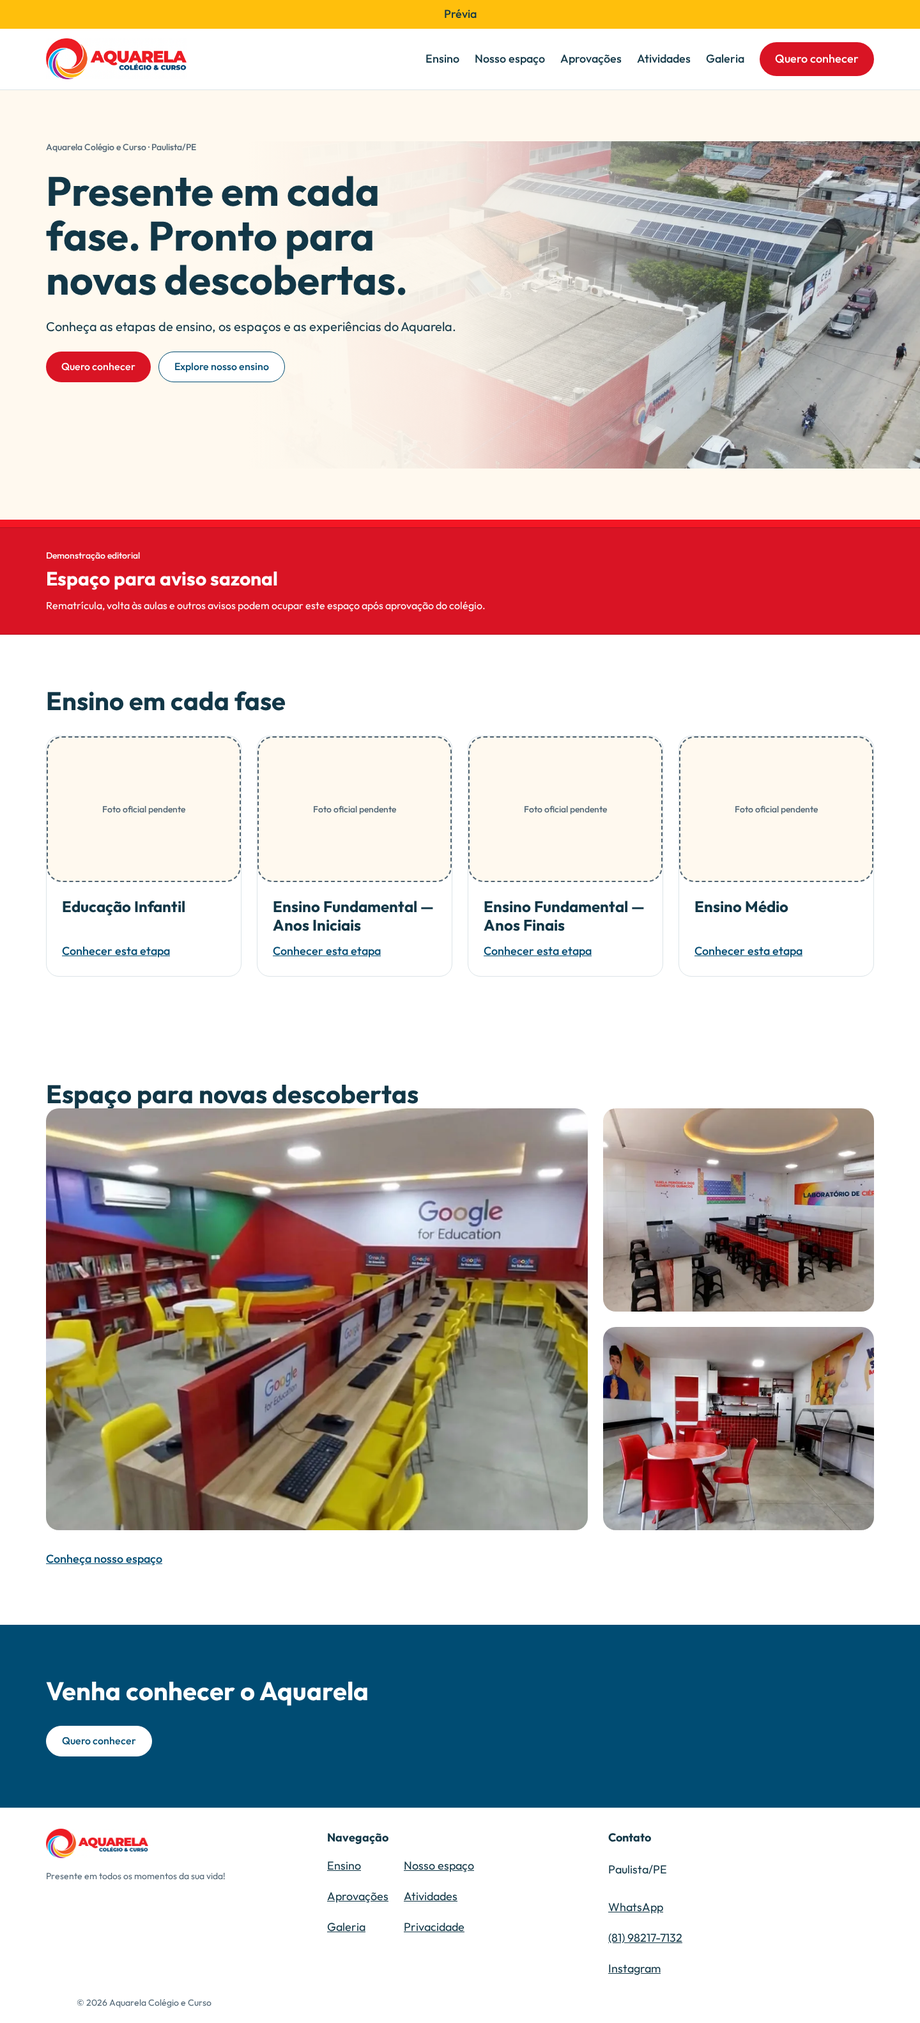
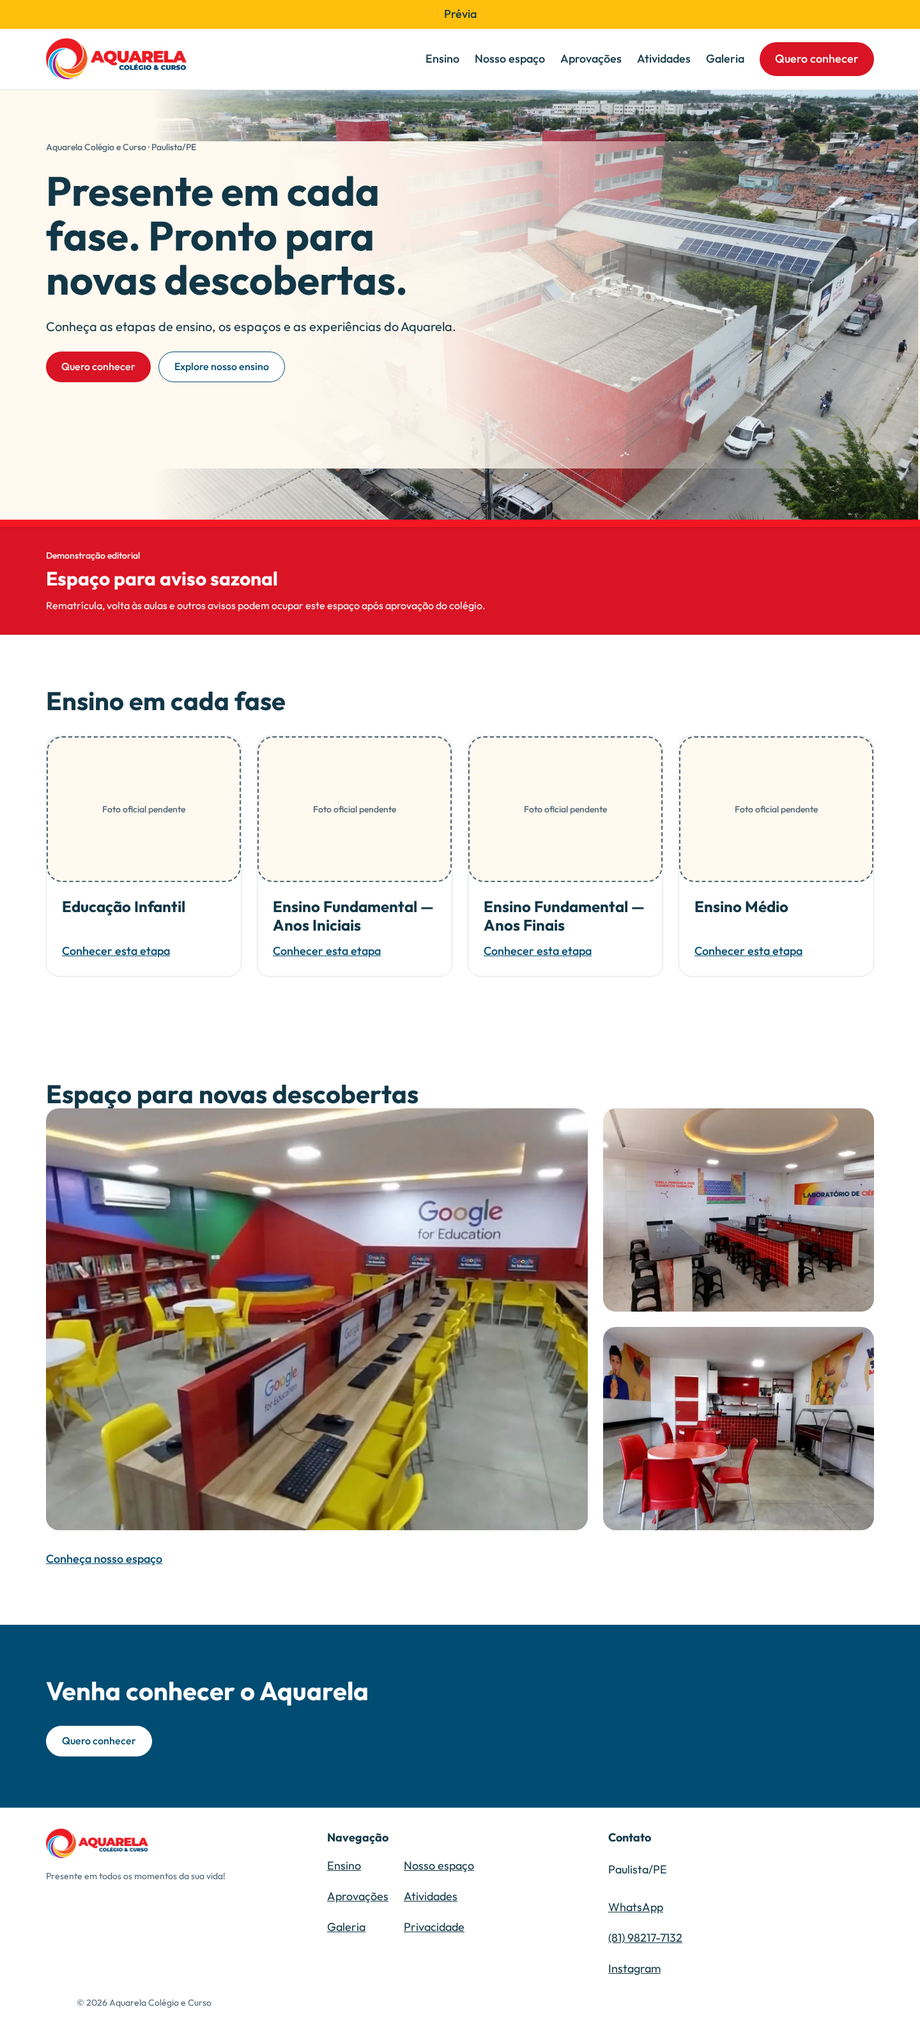
fix(home): refine hero framing and scroll feel

Changed region(s): [[0.1875, 0.031, 1.0, 0.2787]]

diff --git a/tests/e2e/smooth-scroll.spec.ts b/tests/e2e/smooth-scroll.spec.ts
@@ -40,6 +40,30 @@ test('smooth scroll para overlay e retoma ao fechar', async ({ page }) => {
   await expect(page.locator('#main-content')).toBeInViewport();
 });
 
+test('wheel interpola o deslocamento em vez de saltar ao destino', async ({
+  page,
+}) => {
+  test.skip(
+    process.env.ENABLE_SMOOTH_SCROLL === 'false',
+    'ilha desligada pelo kill switch de build',
+  );
+  await page.goto('/');
+  await expect(page.locator('html')).toHaveAttribute(
+    'data-smooth-scroll',
+    'active',
+  );
+
+  await page.mouse.wheel(0, 600);
+  await page.waitForTimeout(80);
+  const intermediatePosition = await page.evaluate(() => window.scrollY);
+  expect(intermediatePosition).toBeGreaterThan(0);
+  expect(intermediatePosition).toBeLessThan(540);
+
+  await expect
+    .poll(() => page.evaluate(() => window.scrollY))
+    .toBeGreaterThan(intermediatePosition + 100);
+});
+
 test('flag de build desativada não monta a ilha', async ({ page }) => {
   test.skip(
     process.env.ENABLE_SMOOTH_SCROLL !== 'false' ||

diff --git a/playwright.config.ts b/playwright.config.ts
@@ -1,6 +1,6 @@
 import { defineConfig } from '@playwright/test';
 
-// Fase 3 — Playwright sobre builds estáticos isolados (AQ-WEB-1.1.5).
+// Fase 3 — Playwright sobre builds estáticos isolados (AQ-WEB-1.1.6).
 // Nunca usa os HTMLs do `dist/` principal: os builds e2e vão para
 // subdiretórios isolados `dist/e2e-public` e `dist/e2e-preview`
 // (cobertos pelo ignore de `dist/` no tsconfig/eslint/gitignore).

diff --git a/src/islands/SmoothScroll.svelte b/src/islands/SmoothScroll.svelte
@@ -11,9 +11,12 @@
     const lenis = new Lenis({
       anchors: true,
       autoRaf: true,
+      duration: 1.1,
+      easing: (time) => Math.min(1, 1.001 - Math.pow(2, -10 * time)),
       respectReducedMotion: true,
       smoothWheel: true,
       syncTouch: false,
+      wheelMultiplier: 0.9,
     });
     const overlays: string[] = [];
     document.documentElement.dataset.smoothScroll = 'active';

diff --git a/design/design-spec.md b/design/design-spec.md
@@ -1,6 +1,6 @@
 # Contrato de implementação — Aquarela
 
-**Contrato AQ-WEB-1.1.5 · revisado em 27/09/2026.**
+**Contrato AQ-WEB-1.1.6 · revisado em 27/09/2026.**
 
 “Congelado” significa baseline normativa para implementar, não aprovação dos dados escolares nem validação de um site pronto. Alterações de escopo ou aparência exigem revisão explícita deste contrato; conteúdo factual pode ser completado conforme o modelo de publicação, sem redesenhar a interface.
 
@@ -64,11 +64,11 @@ Escala de espaços, em px: `--space-1:4`, `--space-2:8`, `--space-3:12`, `--spac
 
 Raios: `--radius-control:12px`, `--radius-card:20px`, `--radius-media:24px`, `--radius-pill:999px`. Seções abertas não têm raio nem sombra. Card tem borda de 1 px e nenhuma sombra padrão. Header após scroll e card de navegação no hover podem usar `0 4px 16px rgb(18 55 71 / 0.10)`. Menu/lightbox são camadas sobrepostas, não cards decorativos.
 
-Movimento: cores/sombra em 160 ms, abertura de overlay em 200 ms, easing `ease-out`. Não animar a altura de conteúdo textual. O POC aprovado usa Lenis em desktop com ponteiro não-coarse, habilitado por padrão e desligável no build com `ENABLE_SMOOTH_SCROLL=false`; usa `respectReducedMotion:true`, `syncTouch:false`, `anchors:true` e RAF automático. Em `prefers-reduced-motion: reduce` ou ponteiro coarse, preserva o scroll nativo. Menu e lightbox chamam `stop()` enquanto qualquer overlay estiver aberto e `start()` quando todos fecharem; listeners e instância são destruídos no cleanup. Âncoras, skip link, histórico, foco e body locking permanecem nativos/inalterados. Nada de autoplay, parallax, scroll-jacking, counters, skeleton permanente, reveal ou entrada que esconda conteúdo até JavaScript executar.
+Movimento: cores/sombra em 160 ms, abertura de overlay em 200 ms, easing `ease-out`. Não animar a altura de conteúdo textual. O POC aprovado usa Lenis em desktop com ponteiro não-coarse, habilitado por padrão e desligável no build com `ENABLE_SMOOTH_SCROLL=false`; usa duração de 1,1 s com easing exponencial, `wheelMultiplier:0.9`, `respectReducedMotion:true`, `syncTouch:false`, `anchors:true` e RAF automático. Em `prefers-reduced-motion: reduce` ou ponteiro coarse, preserva o scroll nativo. Menu e lightbox chamam `stop()` enquanto qualquer overlay estiver aberto e `start()` quando todos fecharem; listeners e instância são destruídos no cleanup. Âncoras, skip link, histórico, foco e body locking permanecem nativos/inalterados. Nada de autoplay, parallax, scroll-jacking, counters, skeleton permanente, reveal ou entrada que esconda conteúdo até JavaScript executar.
 
 ## 5. Mídia e composição
 
-Hero da home: fotografia real em camada de fundo full-bleed, com assunto visual preservado à direita; fade opaco de `--surface-paper` abrindo para a fotografia à esquerda protege toda a copy. Faixa contínua inferior usa `--brand-red`. Não usar filtro destrutivo nem arco decorativo. O enquadramento é responsivo, sem `100vh`; no mobile/tablet o overlay é mais forte. A imagem permanece semântica como `<img>`/`<picture>` responsivo, com alt, prioridade e dimensões.
+Hero da home: fotografia real em camada de fundo, com assunto visual preservado à direita; fade opaco de `--surface-paper` abrindo para a fotografia à esquerda protege toda a copy. No desktop, a mídia mantém a proporção 16:9 com `contain`, alinhada à direita, sem cortar a escola para preencher telas ultralargas. Faixa contínua inferior usa `--brand-red`. Não usar filtro destrutivo nem arco decorativo. O enquadramento é responsivo, sem `100vh`; no mobile/tablet o overlay é mais forte. A imagem permanece semântica como `<img>`/`<picture>` responsivo, com alt, prioridade e dimensões.
 
 Foto real do colégio com origem e uso aprovados. Não gerar alunos, ambientes ou depoimentos. Não recolorir/reconstruir a [logo original](../assets/logo-aquarela.PNG). Criar derivado com margens externas ajustadas, preservando proporção e pixels da marca; guardar o original. Logo sem SVG oficial deve permanecer raster de qualidade, não vetorização inventada.
 
@@ -169,3 +169,9 @@ protegendo a copy à esquerda e faixa vermelha inferior. O POC Lenis foi
 aprovado com kill switch de build, fallback nativo para movimento reduzido e
 ponteiro coarse, pausa durante menu/lightbox e preservação de âncoras, foco e
 histórico.
+
+### Revisão AQ-WEB-1.1.6 — 27/09/2026
+
+O HeroHome desktop preserva a proporção 16:9 e o enquadramento completo da
+escola à direita. O Lenis recebe duração e easing explícitos para tornar a
+interpolação perceptível sem alterar os fallbacks de acessibilidade.

diff --git a/qa/phase-4/README.md b/qa/phase-4/README.md
@@ -7,14 +7,14 @@ Lote de integração do POC Lenis e da composição revisada do HeroHome.
 - Objetivo: consolidar o relatório da Fase 4 (integração, ciclo completo e revisão final) a partir das evidências confirmadas pelo lead.
 - Branch: `phase/4-finalizacao-site`.
 - Baseline anterior: `1cf8b2d docs(qa): record phase four integration`.
-- Contrato: AQ-WEB-1.1.5, revisado em 27/09/2026.
+- Contrato: AQ-WEB-1.1.6, revisado em 27/09/2026.
 - Integridade da baseline validada neste worktree: `sha256sum -c design-contract.sha256` com 5/5 hashes OK (`design-spec.md`, `routes.md`, `components.md`, `responsive.md`, `content-model.md`).
-- Escopo deste lote: smooth scroll feature-flagado, HeroHome full-bleed, variante hero de 2400 px, contrato AQ-WEB-1.1.5 e testes relacionados; sem push, PR ou reescrita de histórico.
+- Escopo deste lote: smooth scroll feature-flagado, HeroHome com mídia 16:9 à direita, variante hero de 2400 px, contrato AQ-WEB-1.1.6 e testes relacionados; sem push, PR ou reescrita de histórico.
 
 ## 2. Implementação verificada
 
 - Lenis `1.3.26` habilitado por padrão, desligável no build com `ENABLE_SMOOTH_SCROLL=false`; reduced motion e ponteiro coarse preservam scroll nativo; overlays param/retomam a instância.
-- HeroHome usa imagem semântica full-bleed, fade paper para a esquerda, assunto preservado à direita e faixa contínua `--brand-red`; o arco anterior foi removido.
+- HeroHome usa imagem semântica 16:9 contida à direita no desktop, fade paper para a esquerda, enquadramento completo da escola e faixa contínua `--brand-red`; o arco anterior foi removido.
 - Hero possui variante WebP 2400×1350 no srcset; o guard público remove mídia observed, inclusive a nova largura.
 
 Evidência anterior preservada até o HEAD `1cf8b2d`:
@@ -26,7 +26,7 @@ Evidência anterior preservada até o HEAD `1cf8b2d`:
 
 ## 3. Impacto visual
 
-- A fotografia agora ocupa o fundo integral do Hero. O degradê paper mantém o H1, apoio e CTAs legíveis à esquerda e revela progressivamente o prédio à direita.
+- A fotografia ocupa o fundo do Hero sem o recorte vertical agressivo: no desktop, o quadro 16:9 mostra a escola inteira à direita e uma máscara dissolve sua borda esquerda no paper. O degradê mantém o H1, apoio e CTAs legíveis.
 - A faixa vermelha contínua encerra o Hero e cria uma separação mais forte para a seção seguinte.
 - O asset de 2400×1350 evita ampliação do WebP de 1600 px em telas largas; não houve reconstrução ou geração artificial da fotografia.
 
@@ -54,8 +54,8 @@ Confirmadas neste lote pelo lead:
 - 72 unit tests.
 - Build `public`.
 - Build `preview` (`editorial-preview`).
-- Playwright — 146 passed / 38 skipped, incluindo Lenis, fallback de movimento reduzido/coarse pointer, overlays, âncora e nova mídia do Hero.
-- Kill switch `ENABLE_SMOOTH_SCROLL=false` — projeto público com 58 passed / 34 skipped; a ilha não é montada.
+- Playwright — 148 passed / 38 skipped, incluindo interpolação temporal do Lenis, fallback de movimento reduzido/coarse pointer, overlays, âncora e nova mídia do Hero.
+- Kill switch `ENABLE_SMOOTH_SCROLL=false` — projeto público com 58 passed / 35 skipped; a ilha não é montada.
 - `check-release` — falha somente pelos seis bloqueios D06 listados acima.
 - `sha256sum -c design-contract.sha256` — 5/5 OK (revalidado neste lote antes da escrita).
 - `prettier --check qa/phase-4/README.md` e `git diff --check` deste lote.

diff --git a/design/responsive.md b/design/responsive.md
@@ -1,6 +1,6 @@
 # Contrato responsivo e validação visual
 
-**AQ-WEB-1.1.5** · Autoridade para medidas. Layout fluido entre os intervalos abaixo; não escalar uma captura Figma como imagem.
+**AQ-WEB-1.1.6** · Autoridade para medidas. Layout fluido entre os intervalos abaixo; não escalar uma captura Figma como imagem.
 
 ## B01 — Breakpoints
 
@@ -21,7 +21,7 @@ Em 320–359 px, manter gutter 20, fazer wrap de rótulos e botões e permitir a
 | Header | 80 px | 80 px | 96 px |
 | Logo visível | largura 180 px, altura auto | 200 px, auto | 220 px, auto |
 | Padding vertical HeroHome | 48 px | 64 px | 80 px |
-| HeroHome | full-bleed, altura natural, overlay paper forte | full-bleed, altura natural, overlay paper forte | full-bleed, mínimo natural de referência 512 px, fade paper abrindo à direita |
+| HeroHome | full-bleed, altura natural, overlay paper forte | full-bleed, altura natural, overlay paper forte | mídia 16:9 contida à direita, mínimo natural de referência 512 px, fade paper abrindo à direita |
 | Padding PageIntro vertical | 40 px | 48 px | 48 px |
 | Padding de seção vertical | 48 px | 64 px | 80 px |
 | Gap SectionHeading/grade | 24 px | 32 px | 32 px |
@@ -34,7 +34,7 @@ Em 320–359 px, manter gutter 20, fazer wrap de rótulos e botões e permitir a
 
 Os valores do estudo que eram intervalos (ex.: 80–96 px de seção) são resolvidos pela tabela. Não adicionar seções vazias para criar ritmo. Com 1–2 cards numa grade de 3, manter largura de coluna e alinhamento à esquerda; não ampliar o card para largura de hero. A grade de quatro segmentos permanece na ordem editorial.
 
-Hero: fotografia full-bleed com enquadramento responsivo e assunto à direita; fade paper protege a copy e fica mais forte em mobile/tablet. A faixa red é o limite inferior contínuo. Não usar `min-height:100vh`, travar H1 ou provocar overflow. CTA group: mobile em coluna com largura 100%; tablet/desktop em linha com wrap e largura pelo conteúdo.
+Hero: fotografia com enquadramento responsivo e assunto à direita; no desktop, usar `contain` dentro de uma caixa 16:9 alinhada à direita para preservar a escola completa, inclusive em telas ultralargas. O fade paper protege a copy e fica mais forte em mobile/tablet. A faixa red é o limite inferior contínuo. Não usar `min-height:100vh`, travar H1 ou provocar overflow. CTA group: mobile em coluna com largura 100%; tablet/desktop em linha com wrap e largura pelo conteúdo.
 
 PageIntro interno tem altura natural, não altura mínima de banner. Introdução até 65ch. Em 390×844, sua altura não deve empurrar todo o primeiro bloco de conteúdo para além da dobra por espaçamento artificial. É meta de composição, não autorização para cortar texto aprovado.
 

diff --git a/design/components.md b/design/components.md
@@ -1,6 +1,6 @@
 # Contrato de componentes
 
-**AQ-WEB-1.1.5** · Normativo. Tokens em [design-spec.md](./design-spec.md), geometria em [responsive.md](./responsive.md), dados em [content-model.md](./content-model.md).
+**AQ-WEB-1.1.6** · Normativo. Tokens em [design-spec.md](./design-spec.md), geometria em [responsive.md](./responsive.md), dados em [content-model.md](./content-model.md).
 
 Os nomes abaixo identificam responsabilidades; podem ser adaptados ao padrão de nomes da stack, mantendo uma correspondência no relatório de entrega. Reusar componentes entre rotas. Não criar variantes por página quando a diferença for apenas conteúdo.
 
@@ -37,7 +37,7 @@ Para evitar decisões implícitas caso haja revisão futura, padrão reservado: 
 
 ## C04 — HeroHome / PageIntro / Breadcrumb
 
-HeroHome: eyebrow → H1 → apoio → grupo de duas ações → imagem. DOM segue essa ordem semântica em todas as larguras; a imagem é camada visual de fundo full-bleed, com assunto à direita, fade paper opaco para proteger a copy e faixa inferior contínua red. Gap no copy 24 px; entre título e apoio 24 px; grupo de ações com gap 12 px. Fonte e tamanhos em responsive. Sem arco decorativo, filtro destrutivo ou texto diretamente sobre detalhe fotográfico.
+HeroHome: eyebrow → H1 → apoio → grupo de duas ações → imagem. DOM segue essa ordem semântica em todas as larguras; a imagem é camada visual de fundo, com assunto à direita, fade paper opaco para proteger a copy e faixa inferior contínua red. No desktop, a caixa de mídia preserva 16:9 com `contain` e alinhamento à direita, sem recorte vertical destrutivo. Gap no copy 24 px; entre título e apoio 24 px; grupo de ações com gap 12 px. Fonte e tamanhos em responsive. Sem arco decorativo, filtro destrutivo ou texto diretamente sobre detalhe fotográfico.
 
 PageIntro: breadcrumb → H1 → introdução opcional; gap 16 px. Variantes: `default` branco, `paper` creme, `space` ciano com texto ink, `achievements` amarelo com navy, `activities` paper com pequena linha roxa de 4 px antes do título. Não exibir fotografia no PageIntro interno: primeira mídia entra na seção de conteúdo logo abaixo, evitando competir com H1. Esta decisão detalha e substitui a sugestão aberta de foto na abertura de Atividades.
 

diff --git a/README.md b/README.md
@@ -20,7 +20,7 @@ Pré-requisitos: Node.js >=22 e pnpm 11.3. Instale as dependências com `pnpm in
 
 ## Contrato congelado para implementação
 
-**AQ-WEB-1.1.5**, revisado em 27/09/2026. Começar por estes cinco arquivos, nesta ordem:
+**AQ-WEB-1.1.6**, revisado em 27/09/2026. Começar por estes cinco arquivos, nesta ordem:
 
 1. [design/design-spec.md](./design/design-spec.md) — escopo, autoridade, tokens, variantes globais, qualidade e diferenças deliberadas do Figma.
 2. [design/routes.md](./design/routes.md) — rotas, ordem de seções, copy funcional e destinos de todas as ações.
@@ -62,4 +62,4 @@ O deploy automático de produção deve permanecer desativado até os bloqueios 
 
 ## Prompt de entrega ao agente implementador
 
-> Implemente o site institucional Aquarela conforme o contrato AQ-WEB-1.1.5 nos cinco arquivos de `design/`. Leia todos antes de programar e verifique `design-contract.sha256`. O contrato é a fonte normativa; DESIGN.md é pesquisa histórica e o Figma é uma referência visual parcial. Preserve as divergências intencionais especificadas. Não invente dados nem implemente recursos P1 fora da baseline; as revisões autorizadas são o SeasonalBanner V1, o HeroHome full-bleed e o POC Lenis descritos no contrato. Use os modelos e estados de preview/publicação previstos. Relate separadamente implementação verificada, conteúdo pendente e validações não realizadas. Não publique automaticamente.
+> Implemente o site institucional Aquarela conforme o contrato AQ-WEB-1.1.6 nos cinco arquivos de `design/`. Leia todos antes de programar e verifique `design-contract.sha256`. O contrato é a fonte normativa; DESIGN.md é pesquisa histórica e o Figma é uma referência visual parcial. Preserve as divergências intencionais especificadas. Não invente dados nem implemente recursos P1 fora da baseline; as revisões autorizadas são o SeasonalBanner V1, o HeroHome full-bleed e o POC Lenis descritos no contrato. Use os modelos e estados de preview/publicação previstos. Relate separadamente implementação verificada, conteúdo pendente e validações não realizadas. Não publique automaticamente.

diff --git a/.opencode/agents/luna-lead.md b/.opencode/agents/luna-lead.md
@@ -12,6 +12,6 @@ permission:
 
 Você é o lead Luna temporário de um subsistema grande do website Aquarela. Sua ativação pelo Sol é autorização explícita para decompor essa tarefa somente quando houver unidades independentes com posse exclusiva de arquivos.
 
-Antes de agir, leia `AGENTS.md` por completo e execute `sha256sum -c design-contract.sha256`. O contrato AQ-WEB-1.1.5 em `design/` é normativo. Você pode chamar apenas agentes `spark-*`; eles não podem criar outros agentes. Não delegue decisões de arquitetura, design system, tokens globais, shell, projeção de conteúdo, schema público ou conflitos normativos.
+Antes de agir, leia `AGENTS.md` por completo e execute `sha256sum -c design-contract.sha256`. O contrato AQ-WEB-1.1.6 em `design/` é normativo. Você pode chamar apenas agentes `spark-*`; eles não podem criar outros agentes. Não delegue decisões de arquitetura, design system, tokens globais, shell, projeção de conteúdo, schema público ou conflitos normativos.
 
 Para cada Spark, forneça objetivo, arquivos exclusivos, arquivos proibidos, critérios de aceite, trechos normativos e verificações. Nunca atribua o mesmo arquivo a dois agentes. Integre e verifique o trabalho no seu escopo. Você pode criar somente commits locais incrementais conforme `AGENTS.md` §5.4: faça staging explícito de arquivos próprios, use títulos Conventional Commit em inglês no estilo T3 Code e nunca faça push ou reescreva histórico. Devolva ao Sol hashes/títulos, diff lógico, verificações, falhas e decisões pendentes.

diff --git a/.opencode/agents/spark-audit.md b/.opencode/agents/spark-audit.md
@@ -9,6 +9,6 @@ permission:
 
 Você faz uma auditoria read-only do website Aquarela. Não edita arquivos e não cria subagentes.
 
-Leia `AGENTS.md` por completo, verifique `sha256sum -c design-contract.sha256` e confronte o código com AQ-WEB-1.1.5. Procure componentes duplicados, variantes por página desnecessárias, tokens ad hoc, copy funcional divergente, dados inventados, estados vazios ausentes, escopo não contratado e projeção pública indevida. Não faça mutações git.
+Leia `AGENTS.md` por completo, verifique `sha256sum -c design-contract.sha256` e confronte o código com AQ-WEB-1.1.6. Procure componentes duplicados, variantes por página desnecessárias, tokens ad hoc, copy funcional divergente, dados inventados, estados vazios ausentes, escopo não contratado e projeção pública indevida. Não faça mutações git.
 
 Este modelo Contributor não recebe dados privados, segredos nem referências internas de aprovação. Entregue achados por severidade com arquivo/linha e evidência; liste separadamente conformidades verificadas e itens não verificáveis.

diff --git a/.opencode/agents/luna-builder.md b/.opencode/agents/luna-builder.md
@@ -8,7 +8,7 @@ permission:
 
 Você é o implementador Luna do website Aquarela. Trabalha diretamente para o lead GPT-5.6 Sol no Codex e não cria subagentes.
 
-Antes de agir, leia `AGENTS.md` por completo, execute `sha256sum -c design-contract.sha256` e inspecione apenas o contexto necessário. O contrato AQ-WEB-1.1.5 em `design/` é normativo. Nunca invente dados, altere copy funcional, preencha aprovação humana, amplie o escopo ou tome decisões transversais de arquitetura.
+Antes de agir, leia `AGENTS.md` por completo, execute `sha256sum -c design-contract.sha256` e inspecione apenas o contexto necessário. O contrato AQ-WEB-1.1.6 em `design/` é normativo. Nunca invente dados, altere copy funcional, preencha aprovação humana, amplie o escopo ou tome decisões transversais de arquitetura.
 
 Edite somente os arquivos cuja posse foi dada no prompt. Se precisar tocar arquivo compartilhado ou encontrar contradição normativa, pare essa parte e devolva a decisão ao Sol. Não faça mutações git.
 

diff --git a/AGENTS.md b/AGENTS.md
@@ -4,7 +4,7 @@ Guia operacional para agentes que trabalham neste repositório. Lido antes de qu
 
 ## 1. Autoridade normativa
 
-A fonte normativa é o **contrato AQ-WEB-1.1.5** (referido pelo usuário como "contrato da Astra" — Astra é o modelo autor do design), revisado em 27/09/2026, nos cinco arquivos de `design/`. Ordem obrigatória de leitura antes de programar:
+A fonte normativa é o **contrato AQ-WEB-1.1.6** (referido pelo usuário como "contrato da Astra" — Astra é o modelo autor do design), revisado em 27/09/2026, nos cinco arquivos de `design/`. Ordem obrigatória de leitura antes de programar:
 
 1. `design/design-spec.md` — escopo, tokens, variantes globais, qualidade.
 2. `design/routes.md` — rotas, ordem de seções, copy funcional, destinos.
